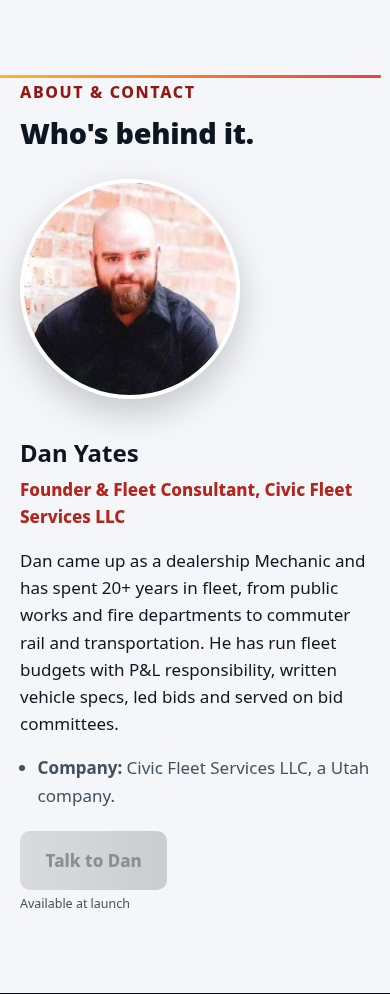
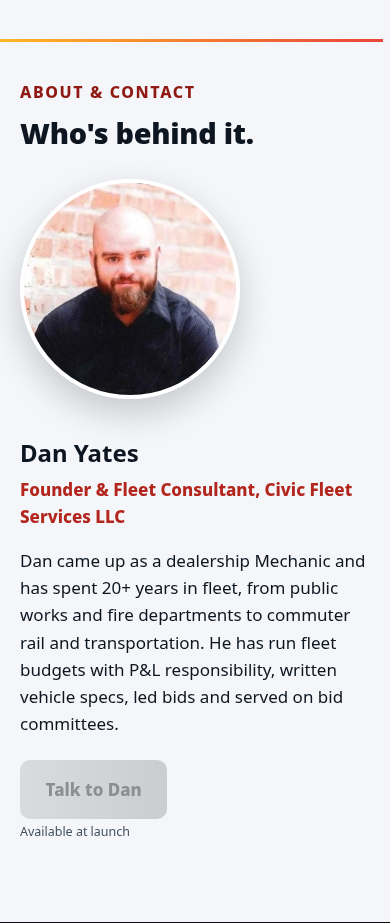
Remove About 'Company' item until launch; regenerate restore patch; re-take crops

Changed region(s): [[0.0, 0.0303, 0.9846, 0.9101]]

diff --git a/index.html b/index.html
@@ -251,9 +251,6 @@ h1.tag{font-size:clamp(1.7rem,3.4vw,2.7rem);line-height:1.12;margin:.6rem 0 1rem
 <img class="ph" src="img/dan-yates.jpg" width="220" height="220" alt="Dan Yates" loading="lazy">
 <div><h3>Dan Yates</h3><p class="role">Founder &amp; Fleet Consultant, <span data-name>Civic Fleet Services LLC</span></p>
 <p>Dan came up as a dealership Mechanic and has spent 20+ years in fleet, from public works and fire departments to commuter rail and transportation. He has run fleet budgets with P&amp;L responsibility, written vehicle specs, led bids and served on bid committees.</p>
-<ul>
-<li><b>Company:</b> <span data-name>Civic Fleet Services LLC</span>, a Utah company.</li>
-</ul>
 <div class="ctas"><span class="start"><button type="button" class="cta pl-off" aria-disabled="true" title="Available at launch">Talk to Dan</button><small class="pl-note">Available at launch</small></span></div>
 </div></div>
 </div></section>
